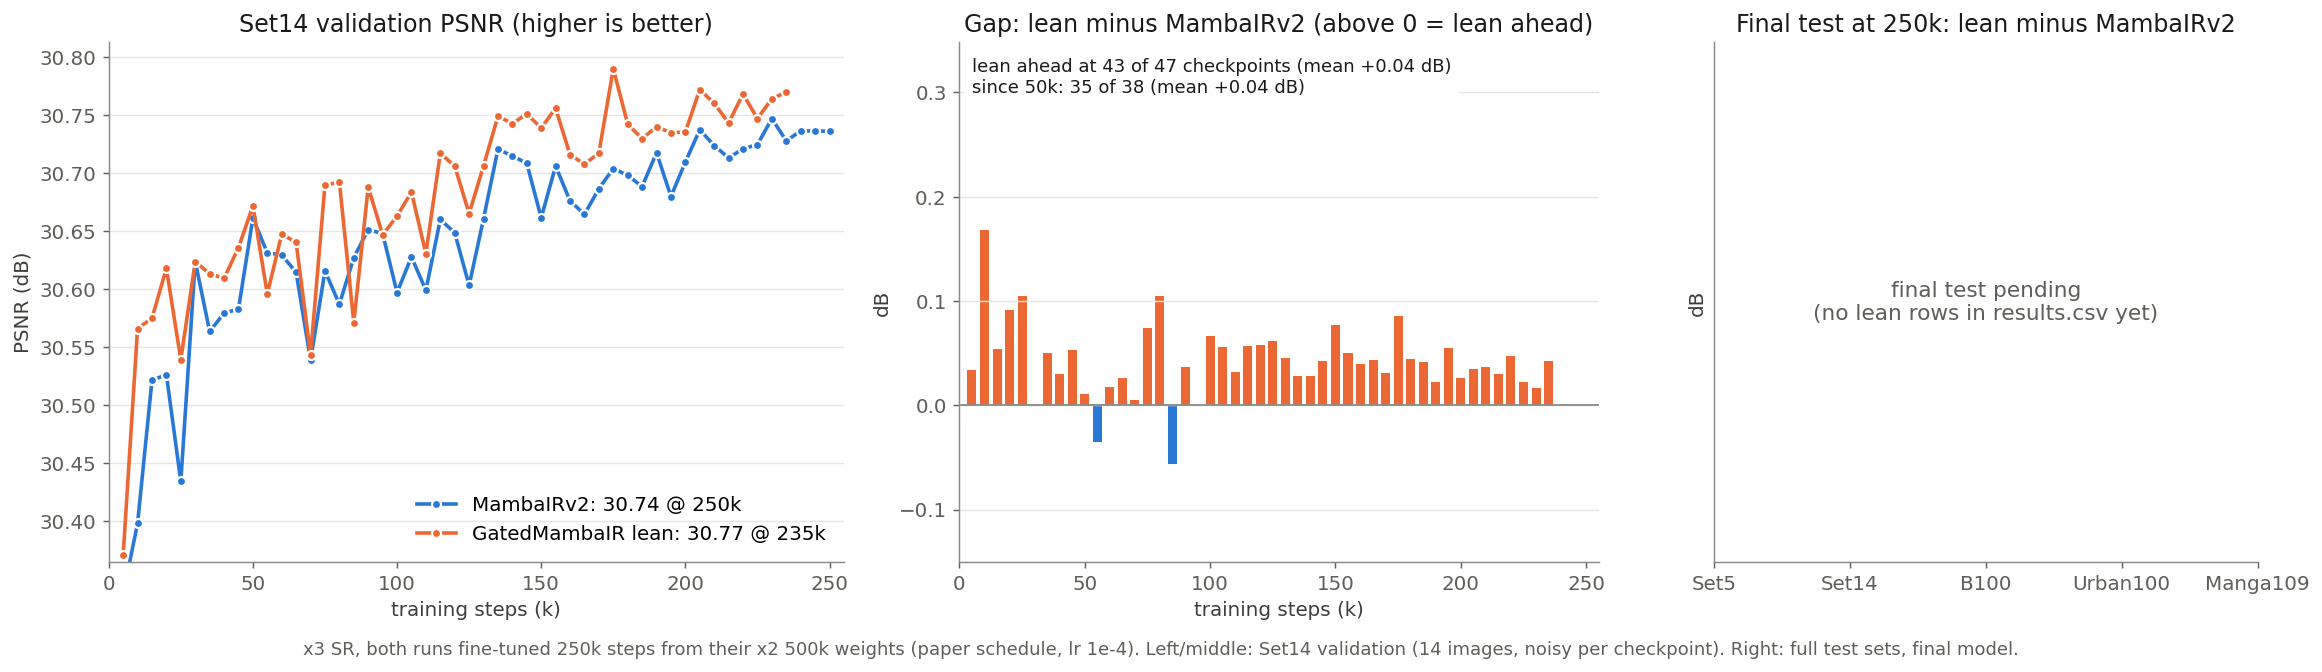
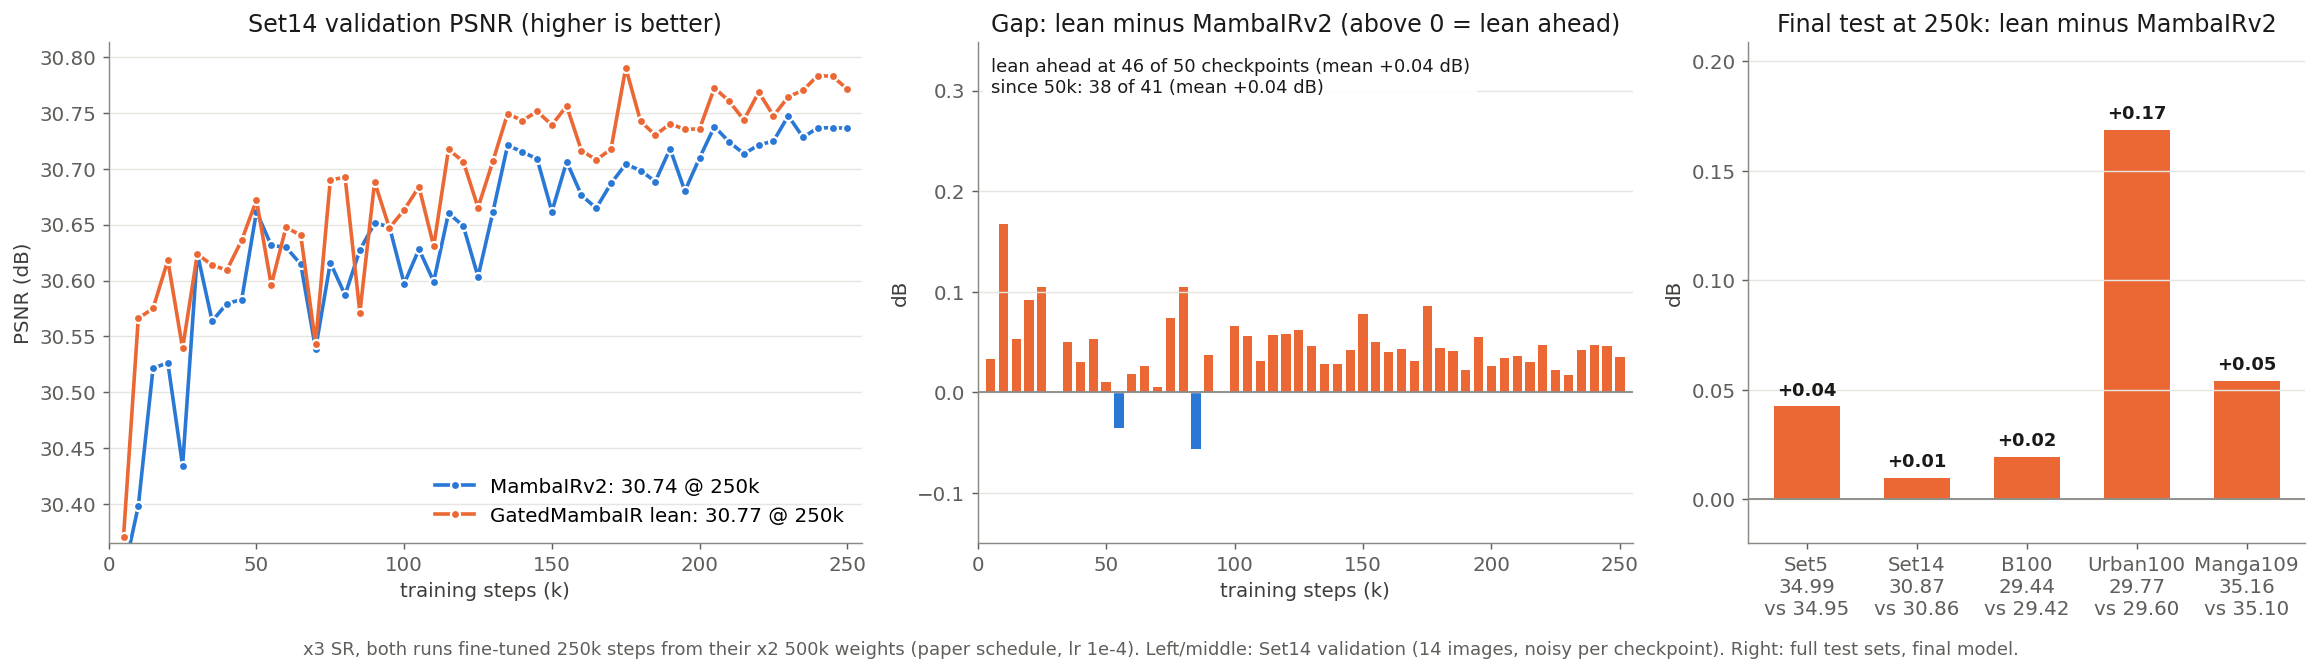
Status: x3/x4 final results (lean wins all 5 sets at both scales), final x3/x4 curves

diff --git a/docs/STATUS.md b/docs/STATUS.md
@@ -1,6 +1,6 @@
 # GatedMambaIR: Status Report
 
-_Last updated: 2026-10-26 22:00 EDT. Method and background: [GatedMambaIR.md](GatedMambaIR.md). All test scores: [results.csv](results.csv)._
+_Last updated: 2026-10-27 23:30 EDT. Method and background: [GatedMambaIR.md](GatedMambaIR.md). All test scores: [results.csv](results.csv)._
 
 ## Summary
 
@@ -10,7 +10,10 @@ _Last updated: 2026-10-26 22:00 EDT. Method and background: [GatedMambaIR.md](Ga
   - +0.01 to +0.04 dB on Set5, B100 and Manga109
 - During training, lean was ahead at **75 of 81** same-step Set14 checkpoints since 100k (mean **+0.11 dB**). Curves: [500k_curves.png](500k_curves.png).
 - The same win already showed after 50k steps (+0.17 Urban100, +0.12 Manga109), so the gain holds through full training.
-- **×3 / ×4 lean fine-tunes** finish ~Oct 27 morning. Lean is ahead of MambaIRv2 in validation at 42 of 46 (×3) and 44 of 46 (×4) checkpoints so far.
+- **×3 and ×4 (250k fine-tunes, paper schedule): lean also wins on all five benchmarks at both scales** (section 20):
+  - **+0.17 dB on Urban100** at both ×3 (29.77 vs 29.60) and ×4 (27.49 vs 27.32)
+  - ×4 Manga109 +0.09; the other sets +0.01 to +0.05
+  - SSIM is higher on every set at both scales. Curves: [x3_curves.png](x3_curves.png), [x4_curves.png](x4_curves.png).
 - **Where the gain comes from (ablations, section 11):** the lean design itself (per-channel-gated linear-attention memory in place of the Mamba scan). The delta erase is not needed: lean without it (GLA) ties lean.
 
 ## What we did
@@ -264,20 +267,38 @@ Lean is ahead at 8 of 11 checkpoints (average +0.09 dB). Set14 is noisy, so the 
 - **×3 (1437521):** 231k / 250k, done ~Oct 27 07:00. Ahead of MambaIRv2 ×3 at **42 of 46** same-step validation checkpoints (mean **+0.04 dB**); best 30.79 vs 30.75.
 - **×4 (1437522):** 234k / 250k, done ~Oct 27 05:30. Ahead at **44 of 46** (mean **+0.05 dB**); best 29.00 vs 28.96.
 - The 7-day limit is Oct 28 23:39, so they will not be cut off. Tests 1437525 / 1437526 start automatically.
-- Curves (validation up to 235k; right panel fills in after the tests, rerun `tests/plot_curves.py --scale 3` / `--scale 4`): [x3_curves.png](x3_curves.png), [x4_curves.png](x4_curves.png).
+- Final results and curves: section 20.
+
+### 20. Lean ×3 / ×4 final: lean wins on all 5 sets at both scales (2026-10-27)
+
+- **Training finished** Oct 27 (×4 1437522 at 05:34, ×3 1437521 at 07:13); **tests 1437526 / 1437525** finished 06:01 / 07:57.
+
+| ×3, PSNR / SSIM | Set5 | Set14 | B100 | Urban100 | Manga109 |
+|---|---|---|---|---|---|
+| MambaIRv2, our recipe | 34.95 / 0.9316 | 30.86 / 0.8519 | 29.42 / 0.8136 | 29.60 / 0.8797 | 35.10 / 0.9530 |
+| **Lean GatedMambaIR** | **34.99 / 0.9320** | **30.87 / 0.8521** | **29.44 / 0.8140** | **29.77 / 0.8820** | **35.16 / 0.9534** |
+| Gain (PSNR) | +0.04 | +0.01 | +0.02 | +0.17 | +0.05 |
+
+| ×4, PSNR / SSIM | Set5 | Set14 | B100 | Urban100 | Manga109 |
+|---|---|---|---|---|---|
+| MambaIRv2, our recipe | 32.79 / 0.9024 | 29.08 / 0.7933 | 27.88 / 0.7473 | 27.32 / 0.8217 | 32.01 / 0.9241 |
+| **Lean GatedMambaIR** | **32.83 / 0.9031** | **29.12 / 0.7937** | **27.90 / 0.7479** | **27.49 / 0.8253** | **32.10 / 0.9253** |
+| Gain (PSNR) | +0.05 | +0.04 | +0.02 | +0.17 | +0.09 |
+
+- **Same pattern as ×2:** the largest gain is on Urban100 (+0.16 at ×2, +0.17 at ×3 and ×4), the set with the most long-range repeated structure.
+- **Validation (Set14, same-step):** lean ahead at **46 of 50** checkpoints at ×3 (mean **+0.04 dB**) and **48 of 50** at ×4 (mean **+0.05 dB**). Best 30.79 vs 30.75 (×3), 29.00 vs 28.96 (×4).
+- So lean beats MambaIRv2 on **all 15 scale/set pairs** (×2, ×3, ×4 × 5 sets), PSNR and SSIM.
 
 ![x3 curves](x3_curves.png)
 ![x4 curves](x4_curves.png)
 
-## Running / queued now (2026-10-26)
+## Running / queued now (2026-10-27)
 
-| Job | What | Status |
-|---|---|---|
-| 1437521 / 1437522 | **Lean ×3 / ×4 fine-tune 250k from ×2 500k** | running, **231k / 234k**, done ~Oct 27 07:00 / 05:30 |
-| 1437525 / 1437526 | Tests of lean ×3 / ×4, all 5 sets | after their fine-tunes (~Oct 27 morning) |
+No GatedMambaIR training or test jobs are running. The ×2 / ×3 / ×4 comparison is complete. (The memory-heatmap analysis job 1530923 is separate.)
 
 ## Finished since last report
 
+- **Lean ×3 / ×4 250k fine-tunes:** training 1437521 / 1437522 and tests 1437525 / 1437526 (Oct 27). Results in section 20.
 - **Lean ×2 500k:** training 1450198 (resume from 275k, done Oct 21) and test 1433568 (Oct 22). Results in section 18.
 - **MambaIRv2:** ×2 500k (1410815, test 1433380), ×3/×4 100k (1433564/5, tests 1433569/70), ×3/×4 250k (1437519/20, tests 1437523/24).
 - **Ablations:** lean+per-head (1410817), exact size k30 (1410869), lean+GLA (1424853). Results in sections 9 and 11.
@@ -294,7 +315,7 @@ Lean is ahead at 8 of 11 checkpoints (average +0.09 dB). Set14 is noisy, so the 
 
 1. ~~Both 500k runs~~ **Done: lean wins on all 5 ×2 sets (section 18).**
 2. **Lean won at 500k, so now:** (per-head and exact-size ablations are already done, see section 9):
-   - **×3 and ×4:** MambaIRv2 done (section 16); lean finishing ~Oct 27 (section 19).
+   - ~~**×3 and ×4**~~ **Done: lean wins on all 5 sets at both scales (section 20).**
    - **Ablations** (50k each, same recipe), each removing one piece of the lean model:
      - lean **without the delta erase** (GLA): done, ties lean (section 11),
      - lean with **per-head** forgetting: done (section 9),
